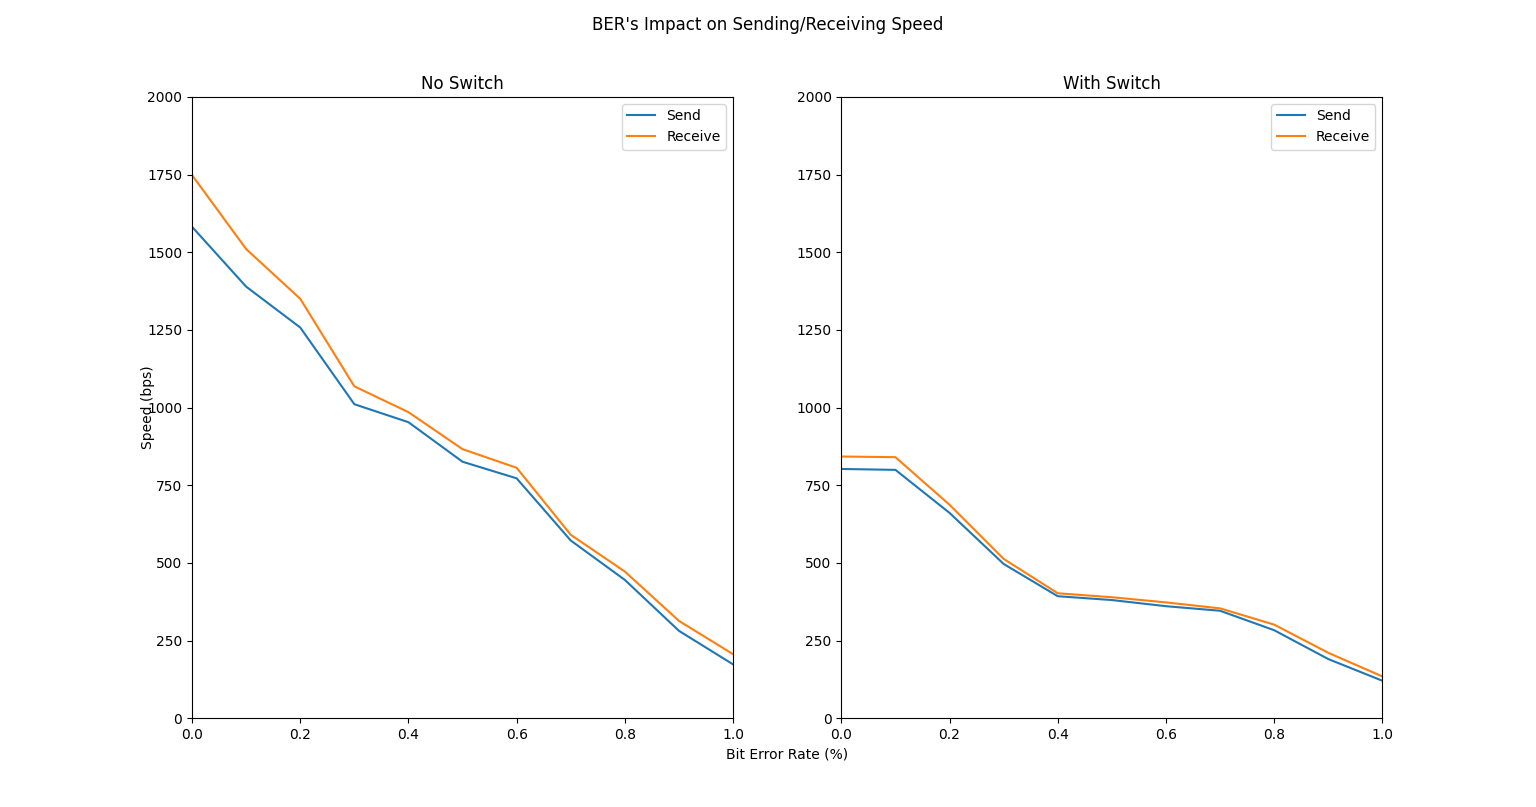
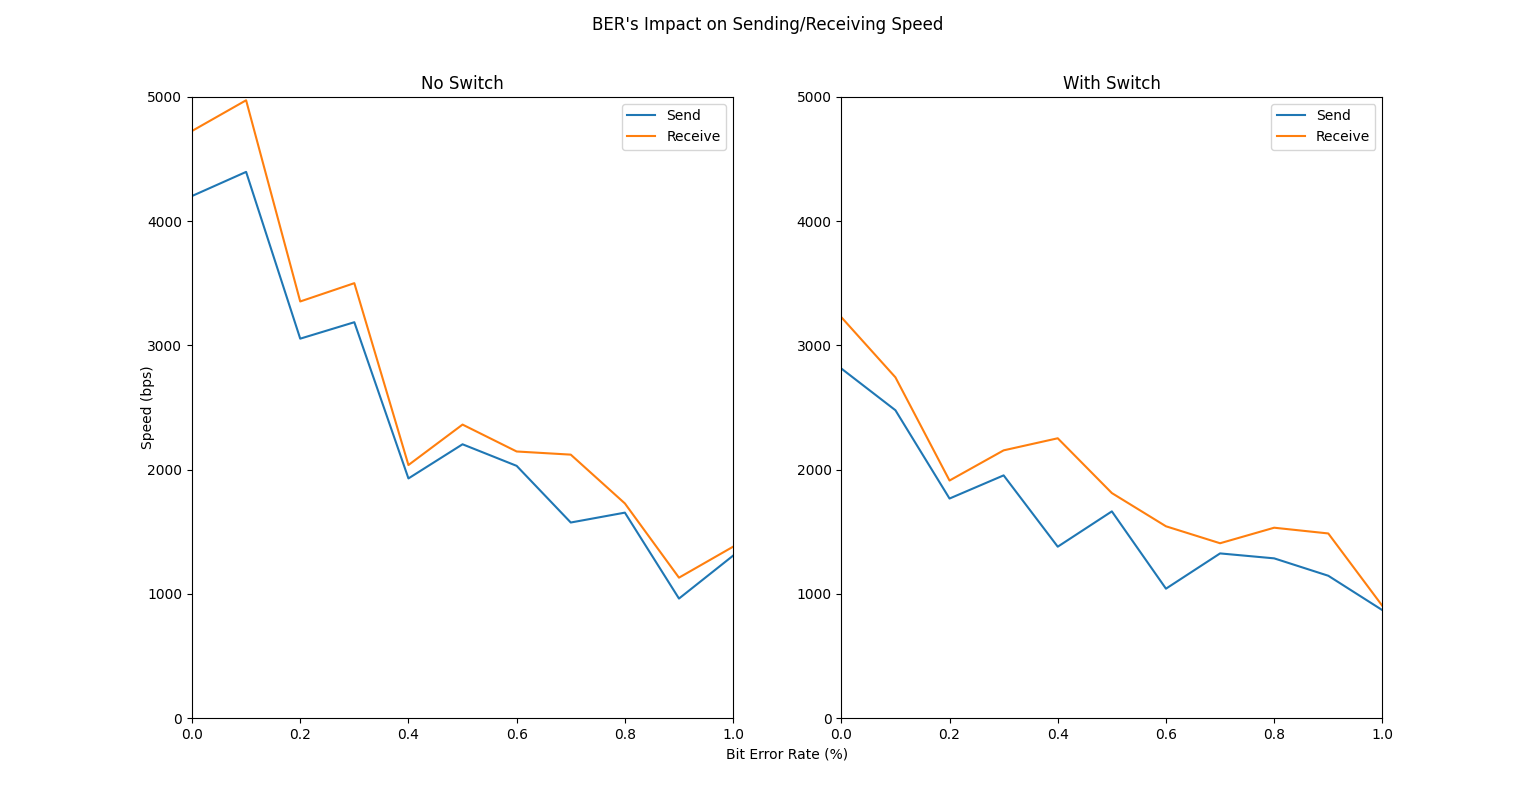
:pencil: 更新阶段三吞吐量

diff --git a/Project1-MinNE-python/report/ber.py b/Project1-MinNE-python/report/ber.py
@@ -34,44 +34,63 @@ recv_speed_1 = np.array(
         [823.0, 835.6, 2481.9],
     ]
 )
-# send_speed_2 = np.array(
-#     [802.3, 799.4, 660.9, 496.6, 392.7, 380.4, 360.6, 345.9, 283.3, 190.4, 120.6]
-# )
-# recv_speed_2 = np.array(
-#     [842.4, 840.2, 687.0, 512.8, 402.2, 389.4, 372.8, 353.6, 301.2, 210.5, 134.4]
-# )
+send_speed_2 = np.array(
+    [
+        [2642.8, 2874.0, 2925.1],
+        [2600.5, 2273.9, 2560.4],
+        [1799.9, 1741.9, 1761.4],
+        [2521.0, 1904.5, 1437.0],
+        [1436.8, 1605.0, 1099.0],
+        [1310.3, 1800.0, 1883.1],
+        [702.9, 802.8, 1621.7],
+        [1289.7, 1017.6, 1671.4],
+        [2481.5, 608.9, 768.9],
+        [806.8, 1169.9, 1462.6],
+        [562.8, 946.6, 1099.1],
+    ]
+)
+recv_speed_2 = np.array(
+    [
+        [2925.3, 3343.4, 3412.6],
+        [2874.7, 2480.4, 2874.2],
+        [1949.6, 1860.8, 1927.4],
+        [2874.2, 2047.0, 1545.2],
+        [1530.7, 1741.5, 3485.8],
+        [1388.0, 1973.6, 2073.8],
+        [1269.8, 1621.2, 1742.4],
+        [1353.5, 1070.8, 1799.7],
+        [2823.1, 980.7, 795.1],
+        [1653.9, 1231.5, 1574.9],
+        [576.7, 980.7, 1153.5],
+    ]
+)
 
 send_speed_1_average = np.array([np.mean(lst) for lst in send_speed_1])
 recv_speed_1_average = np.array([np.mean(lst) for lst in recv_speed_1])
-plt.title("BER's Impact on Sending/Receiving Speed")
+send_speed_2_average = np.array([np.mean(lst) for lst in send_speed_2])
+recv_speed_2_average = np.array([np.mean(lst) for lst in recv_speed_2])
+
+fig, axes = plt.subplots(1, 2)
+
+plt.subplot(1, 2, 1)
+plt.title("No Switch")
 plt.xlim(0, 1)
 plt.ylim(0, 5000)
 plt.plot(ber, send_speed_1_average, label="Send")
 plt.plot(ber, recv_speed_1_average, label="Receive")
 plt.legend()
-plt.grid(True)
 
-# fig, axes = plt.subplots(1, 2)
+plt.subplot(1, 2, 2)
+plt.title("With Switch")
+plt.xlim(0, 1)
+plt.ylim(0, 5000)
+plt.plot(ber, send_speed_2_average, label="Send")
+plt.plot(ber, recv_speed_2_average, label="Receive")
+plt.legend()
 
-# plt.subplot(1, 2, 1)
-# plt.title("No Switch")
-# plt.xlim(0, 1)
-# plt.ylim(0, 2000)
-# plt.plot(ber, send_speed_1, label="Send")
-# plt.plot(ber, recv_speed_1, label="Receive")
-# plt.legend()
-
-# plt.subplot(1, 2, 2)
-# plt.title("With Switch")
-# plt.xlim(0, 1)
-# plt.ylim(0, 2000)
-# plt.plot(ber, send_speed_2, label="Send")
-# plt.plot(ber, recv_speed_2, label="Receive")
-# plt.legend()
-
-# fig.add_subplot(111, frameon=False)
-# plt.tick_params(labelcolor="none", top=False, bottom=False, left=False, right=False)
-# plt.suptitle("BER's Impact on Sending/Receiving Speed")
+fig.add_subplot(111, frameon=False)
+plt.tick_params(labelcolor="none", top=False, bottom=False, left=False, right=False)
+plt.suptitle("BER's Impact on Sending/Receiving Speed")
 plt.xlabel("Bit Error Rate (%)")
 plt.ylabel("Speed (bps)")
 plt.show()

diff --git a/Project1-MinNE-python/report/report.md b/Project1-MinNE-python/report/report.md
@@ -29,6 +29,8 @@
       - [3.3.3 代码实现](#333-代码实现)
     - [3.4 代码框架](#34-代码框架)
     - [3.5 阶段一测试](#35-阶段一测试)
+      - [3.5.1 随机数产生与应答](#351-随机数产生与应答)
+      - [3.5.2 心得与反思](#352-心得与反思)
   - [四、网络层（主机）](#四网络层主机)
     - [4.1 帧结构](#41-帧结构)
     - [4.2 帧同步与定位](#42-帧同步与定位)
@@ -52,23 +54,26 @@
       - [4.7.1 基本原理](#471-基本原理)
       - [4.7.2 代码实现](#472-代码实现)
     - [4.8 代码框架](#48-代码框架)
-    - [4.9 阶段二调试](#49-阶段二调试)
+    - [4.9 阶段二测试](#49-阶段二测试)
       - [4.9.1 Unicode字符串I/O](#491-unicode字符串io)
-      - [3.9.2 图片的读写](#392-图片的读写)
-      - [3.9.3 差错检测与重传](#393-差错检测与重传)
-      - [3.9.4 Keepalive机制的触发](#394-keepalive机制的触发)
-      - [3.9.5 吞吐量测试](#395-吞吐量测试)
-  - [四、网络层（交换机）](#四网络层交换机)
-    - [4.1 监听各端口消息](#41-监听各端口消息)
-    - [4.2 维护端口地址表](#42-维护端口地址表)
-    - [4.3 多主机信息交换](#43-多主机信息交换)
-    - [4.4 代码框架](#44-代码框架)
-    - [4.5 阶段三调试](#45-阶段三调试)
-      - [4.5.1 单播的支持](#451-单播的支持)
-      - [4.5.2 广播的支持](#452-广播的支持)
-      - [4.5.3 吞吐量测试](#453-吞吐量测试)
-    - [4.6 反思、总结与心得](#46-反思总结与心得)
-  - [五、网络层（路由器）](#五网络层路由器)
+      - [4.9.2 图片的读写](#492-图片的读写)
+      - [4.9.3 差错检测与重传](#493-差错检测与重传)
+      - [4.9.4 Keepalive机制的触发](#494-keepalive机制的触发)
+      - [4.9.5 吞吐量测试](#495-吞吐量测试)
+      - [4.9.6 误码承受能力](#496-误码承受能力)
+      - [4.9.7 心得与反思](#497-心得与反思)
+  - [五、网络层（交换机）](#五网络层交换机)
+    - [5.1 监听各端口消息](#51-监听各端口消息)
+    - [5.2 维护端口地址表](#52-维护端口地址表)
+    - [5.3 多主机信息交换](#53-多主机信息交换)
+    - [5.4 代码框架](#54-代码框架)
+    - [5.5 阶段三测试](#55-阶段三测试)
+      - [5.5.1 单播的支持](#551-单播的支持)
+      - [5.5.2 广播的支持](#552-广播的支持)
+      - [5.5.3 吞吐量测试](#553-吞吐量测试)
+      - [5.5.4 误码承受能力](#554-误码承受能力)
+      - [5.5.5 心得与反思](#555-心得与反思)
+  - [六、网络层（路由器）](#六网络层路由器)
 
 ## 一、整体架构
 
@@ -793,9 +798,23 @@ while True:
 
 ![阶段三调试3-2](images/stage3-3.png)
 
-左边是[4.9.5节](#495-吞吐量测试)的曲线，作为对照；右边是本次有交换机的吞吐量测试结果。在信道环境良好的情况下，吞吐量可以达到800bps左右；该系统对误码率的承受程度约为1%。
+左边是[4.9.5节](#495-吞吐量测试)的曲线，作为对照；右边是本次有交换机的吞吐量测试结果。在信道环境优质的情况下，吞吐量最高可以达到3000bps左右；随着误码率提高，吞吐量总体呈下降趋势。
 
-#### 5.5.6 心得与反思
+#### 5.5.4 误码承受能力
+
+测试方法与[4.9.6节](#496-误码承受能力)基本一致，但本次测试调整的是交换机两个物理层端口的误码率。
+
+在本测试中，我们将测试系统对误码的承受能力。我们将逐步提高误码率，步进0.5%，当连续3次触发双方的Keepalive机制时，则认为系统达到误码承受能力上限。测试结果如下表：
+
+|    误码率     |    发送端     |    接收端     |
+| :-----------: | :-----------: | :-----------: |
+|   $0-1.5\%$   |   成功发送    |   成功接收    |
+| $2.0\%-2.5\%$ | 触发Keepalive |   成功接收    |
+|  $\ge 3.0\%$  | 触发Keepalive | 触发Keepalive |
+
+由此我们可以说，该系统对误码的承受能力在3%左右，与无交换机时一致；高于3%时，用户需要等待信道恢复良好时，再重新输入消息。
+
+#### 5.5.5 心得与反思
 
 通过阶段三的程序编写，我们对端口地址表的实现有了深刻的体会，同时也了解了“反向学习”，这一个初听神秘、现在熟知的功能。同时，我们也在编写广播功能的同时，认识到了广播风暴的根源。
 
